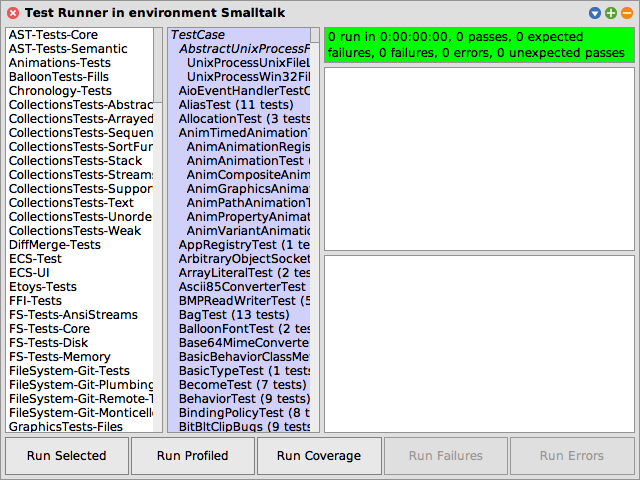
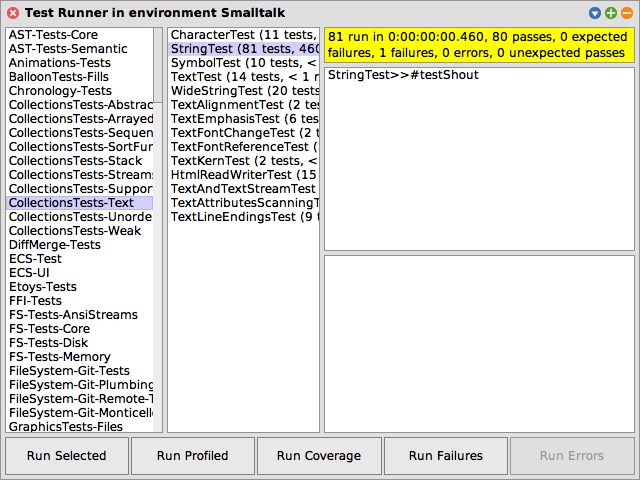
fix testRunnerOnStringTest

Changed region(s): [[0.0, 0.0312, 1.0, 0.9062], [0.625, 0.9375, 0.75, 0.9688]]

diff --git a/QuickTour/QuickTour.tex b/QuickTour/QuickTour.tex
@@ -804,10 +804,15 @@ The leftmost two panes are a bit like the top panes in the system browser.  The 
 
 \dothis{Select \scat{CollectionsTests-Text} and the pane to the right will show all of the test classes in that category, which includes the class \ct{StringTest}.  The names of the classes are already selected, so click \menu{Run Selected} to run all these tests.}
 
-%%{SBESqueakPicture writeTo: './figures/testRunnerOnStringTest.png' frame: #morphs using: [:helper |
-%%  ToolBuilder open: TestRunner new.
-%%  "select 'CollectionsTests-Text' in test runner's 6th submorph,
-%%  then click 'Run Selected' button"
+%%{SBESqueakPicture writeTo: './figures/testRunnerOnStringTest.png' frame: #morphs using: [:helper | | testRunner categoryIndex |
+%%  [StringTest compile: 'testShout self assert: false'.
+%%  testRunner := (ToolBuilder open: TestRunner new) model.
+%%  categoryIndex := testRunner categoryList indexOf: 'CollectionsTests-Text'.
+%%  testRunner categorySelected: categoryIndex.
+%%  testRunner categoryAt: categoryIndex put: true.
+%%  testRunner selectNoClasses.
+%%  testRunner classAt: (testRunner classList findFirst: [:s | s beginsWith: 'StringTest']) put: true.
+%%  testRunner runAll] ensure: [StringTest removeSelector: #testShout]
 %%]}
 
 \begin{figure}[hbt]
